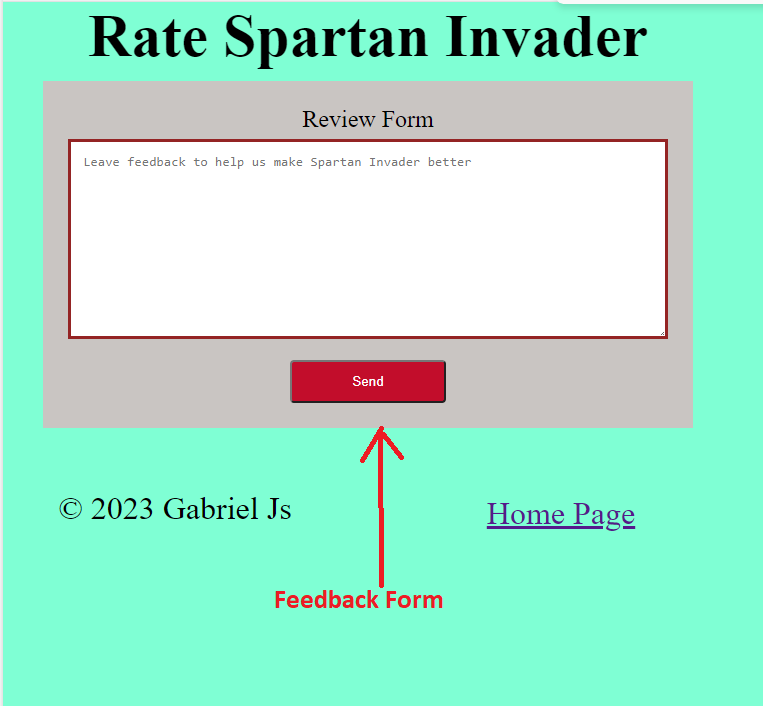
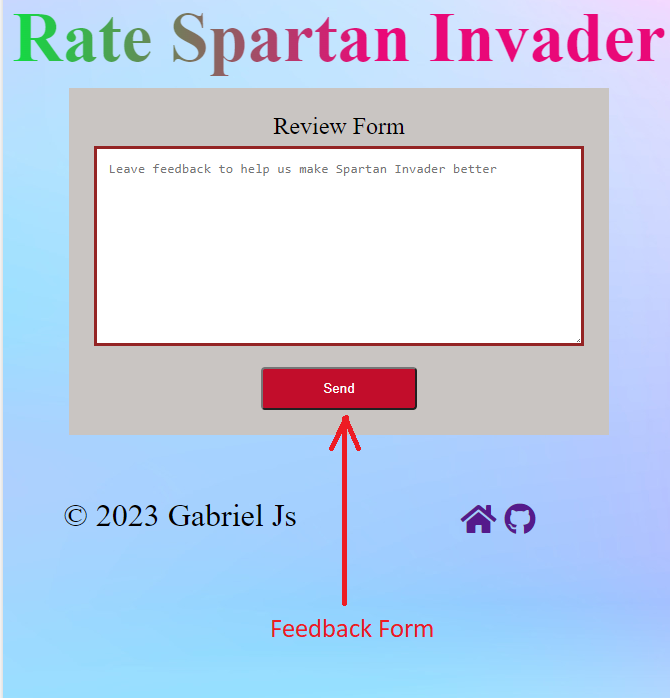
Because of design change i resubmitted all the screenshot untill css validation

diff --git a/README.md b/README.md
@@ -196,6 +196,7 @@ User stories: 7.
 Displayed on each page, it slightly differs on each page. On the main page and 404 page, the footer has a link to the feedback page. On the feedback page, the footer has a link to the homepage. Each page also includes a copyright message.
 
 User story: 5. 
+
 ![Footer of Home and 404 Page](docs/features/footer/home-404-footer.png)
 ![Footer of Feedback page](docs/features/footer/feedback-footer.png)
 
@@ -289,7 +290,7 @@ User stories: 6
 
 A 404 page should be created to help the user navigate to the home page in case they entered the wrong URL.
 
-Since the website is small, we added an initial game to it and a link to the feedback option.
+Since the website is small, we added an initial game to it and a link to the homepage
 
 User story: 8
 
